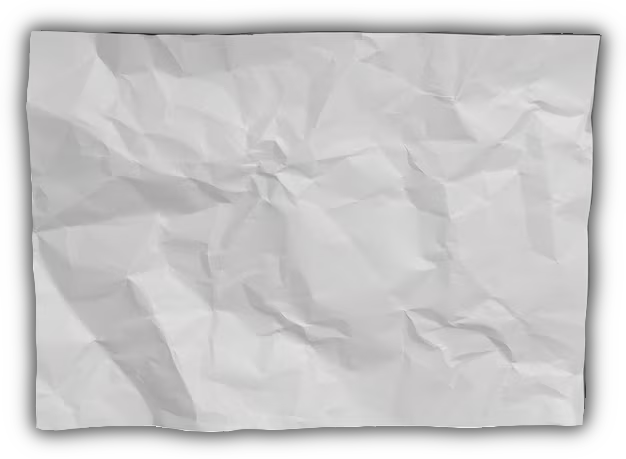
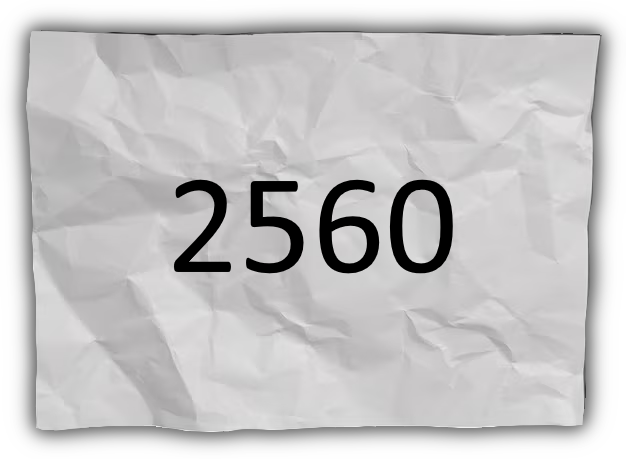
adjusted hints to have glow features when in room navigation and also with hint navigation

Changed region(s): [[0.3946, 0.366, 0.7284, 0.61], [0.2732, 0.366, 0.3642, 0.61]]

diff --git a/src/main/java/nz/ac/auckland/se206/controllers/PaperController.java b/src/main/java/nz/ac/auckland/se206/controllers/PaperController.java
@@ -19,6 +19,8 @@ public class PaperController {
   @FXML private Label paperTitle;
   @FXML private Label paperHint;
   @FXML private ImageView imgPaperTop;
+  @FXML private ImageView exitButtonHover;
+  @FXML private ImageView exitButtonUnhovered;
 
   @FXML
   public void initialize() throws ApiProxyException {
@@ -59,6 +61,18 @@ public class PaperController {
   private void handleRectangleClick(MouseEvent event) throws IOException {
     Rectangle clickedRectangle = (Rectangle) event.getSource();
     context.handleRectangleClick(event, clickedRectangle.getId());
+  }
+
+  @FXML // Handle the exit button hover effect based on hovering the rectangle above it
+  private void handleExitHoverEnter(MouseEvent event) {
+    exitButtonUnhovered.setVisible(false);
+    exitButtonHover.setVisible(true);
+  }
+
+  @FXML // Handle the exit button hover effect based on exiting the rectangle above it
+  private void handleExitHoverExit(MouseEvent event) {
+    exitButtonUnhovered.setVisible(true);
+    exitButtonHover.setVisible(false);
   }
 
   public void showPaperPane() {

diff --git a/src/main/java/nz/ac/auckland/se206/controllers/ScrunchedPaperController.java b/src/main/java/nz/ac/auckland/se206/controllers/ScrunchedPaperController.java
@@ -16,6 +16,7 @@ public class ScrunchedPaperController {
 
   @FXML private AnchorPane scrunchedPaperPane;
   @FXML private ImageView btnAnalyseImage;
+  @FXML private ImageView exitButtonHover;
 
   @FXML
   public void initialize() throws ApiProxyException {
@@ -31,6 +32,16 @@ public class ScrunchedPaperController {
   private void handleRectangleClick(MouseEvent event) throws IOException {
     Rectangle clickedRectangle = (Rectangle) event.getSource();
     context.handleRectangleClick(event, clickedRectangle.getId());
+  }
+
+  @FXML // Handle the exit button hover effect based on hovering the rectangle above it
+  private void handleExitHoverEnter(MouseEvent event) {
+    exitButtonHover.setVisible(true);
+  }
+
+  @FXML // Handle the exit button hover effect based on exiting the rectangle above it
+  private void handleExitHoverExit(MouseEvent event) {
+    exitButtonHover.setVisible(false);
   }
 
   @FXML

diff --git a/src/main/java/nz/ac/auckland/se206/controllers/RoomController.java b/src/main/java/nz/ac/auckland/se206/controllers/RoomController.java
@@ -42,6 +42,7 @@ public class RoomController {
   @FXML private ImageView btnMakeAGuess;
   @FXML private ImageView btnReplayGameImage;
   @FXML private ImageView btnExitGameImage;
+  @FXML private ImageView glowComputer;
 
   // Controllers
   private ChatController chatController;
@@ -400,6 +401,10 @@ public class RoomController {
 
     // Reset room label to the original room name
     lblRoomName.setText(originalRoomName);
+    if (hoveredRectangle.getId().equals("rectComputer")) {
+      // set specific image that isn't the hovered image to be opaque
+      glowComputer.setVisible(false);
+    }
   }
 
   /**
@@ -475,6 +480,9 @@ public class RoomController {
         return;
       case "rectBedroom":
         lblRoomName.setText("Bedroom");
+        return;
+      case "rectComputer":
+        glowComputer.setVisible(true);
         return;
     }
   }

diff --git a/src/main/java/nz/ac/auckland/se206/controllers/SafeController.java b/src/main/java/nz/ac/auckland/se206/controllers/SafeController.java
@@ -35,7 +35,7 @@ public class SafeController {
   @FXML private Label lblTimer;
 
   // Correct combination to open the safe
-  private final String correctCode = "1994";
+  private final String correctCode = "2560";
 
   // StringBuilder to hold entered digits
   private StringBuilder enteredCode = new StringBuilder();

diff --git a/src/main/java/nz/ac/auckland/se206/controllers/ComputerPasswordController.java b/src/main/java/nz/ac/auckland/se206/controllers/ComputerPasswordController.java
@@ -32,7 +32,7 @@ public class ComputerPasswordController {
 
   private TimerManager timerManager;
 
-  private static final String CORRECT_PASSWORD = "123";
+  private static final String CORRECT_PASSWORD = "apple";
   private boolean isPasswordVisible = false;
 
   @FXML
